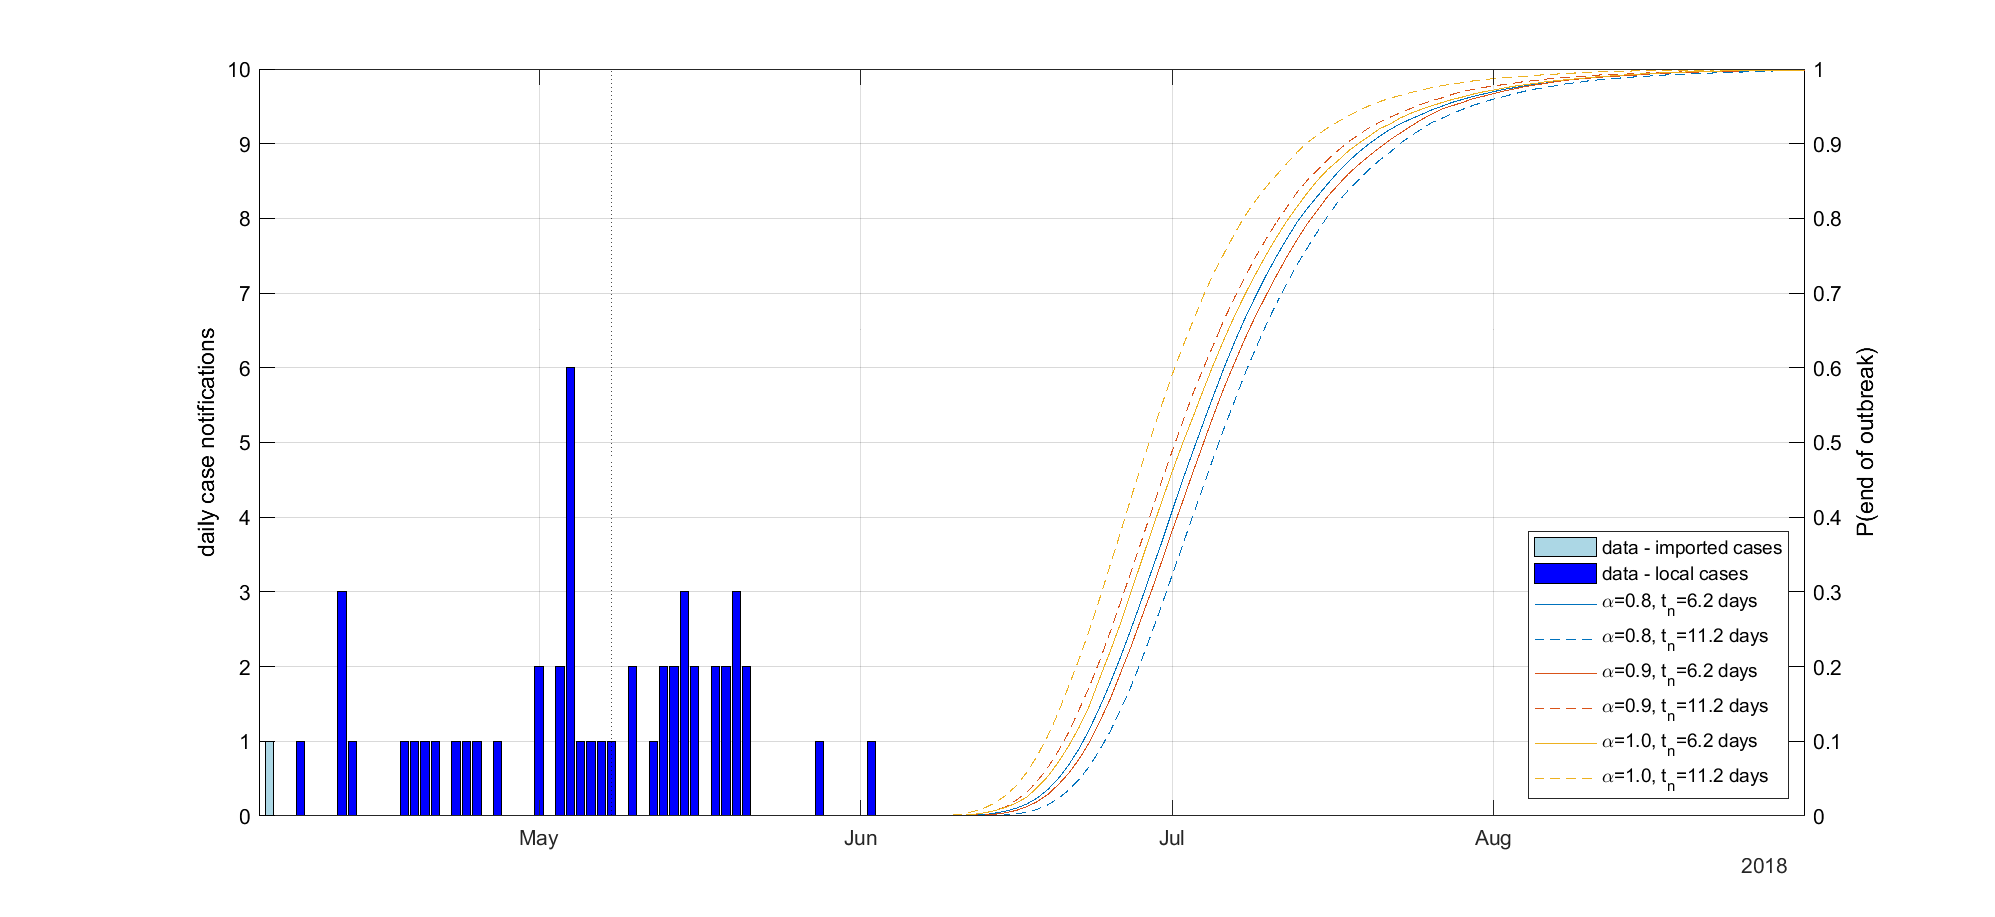
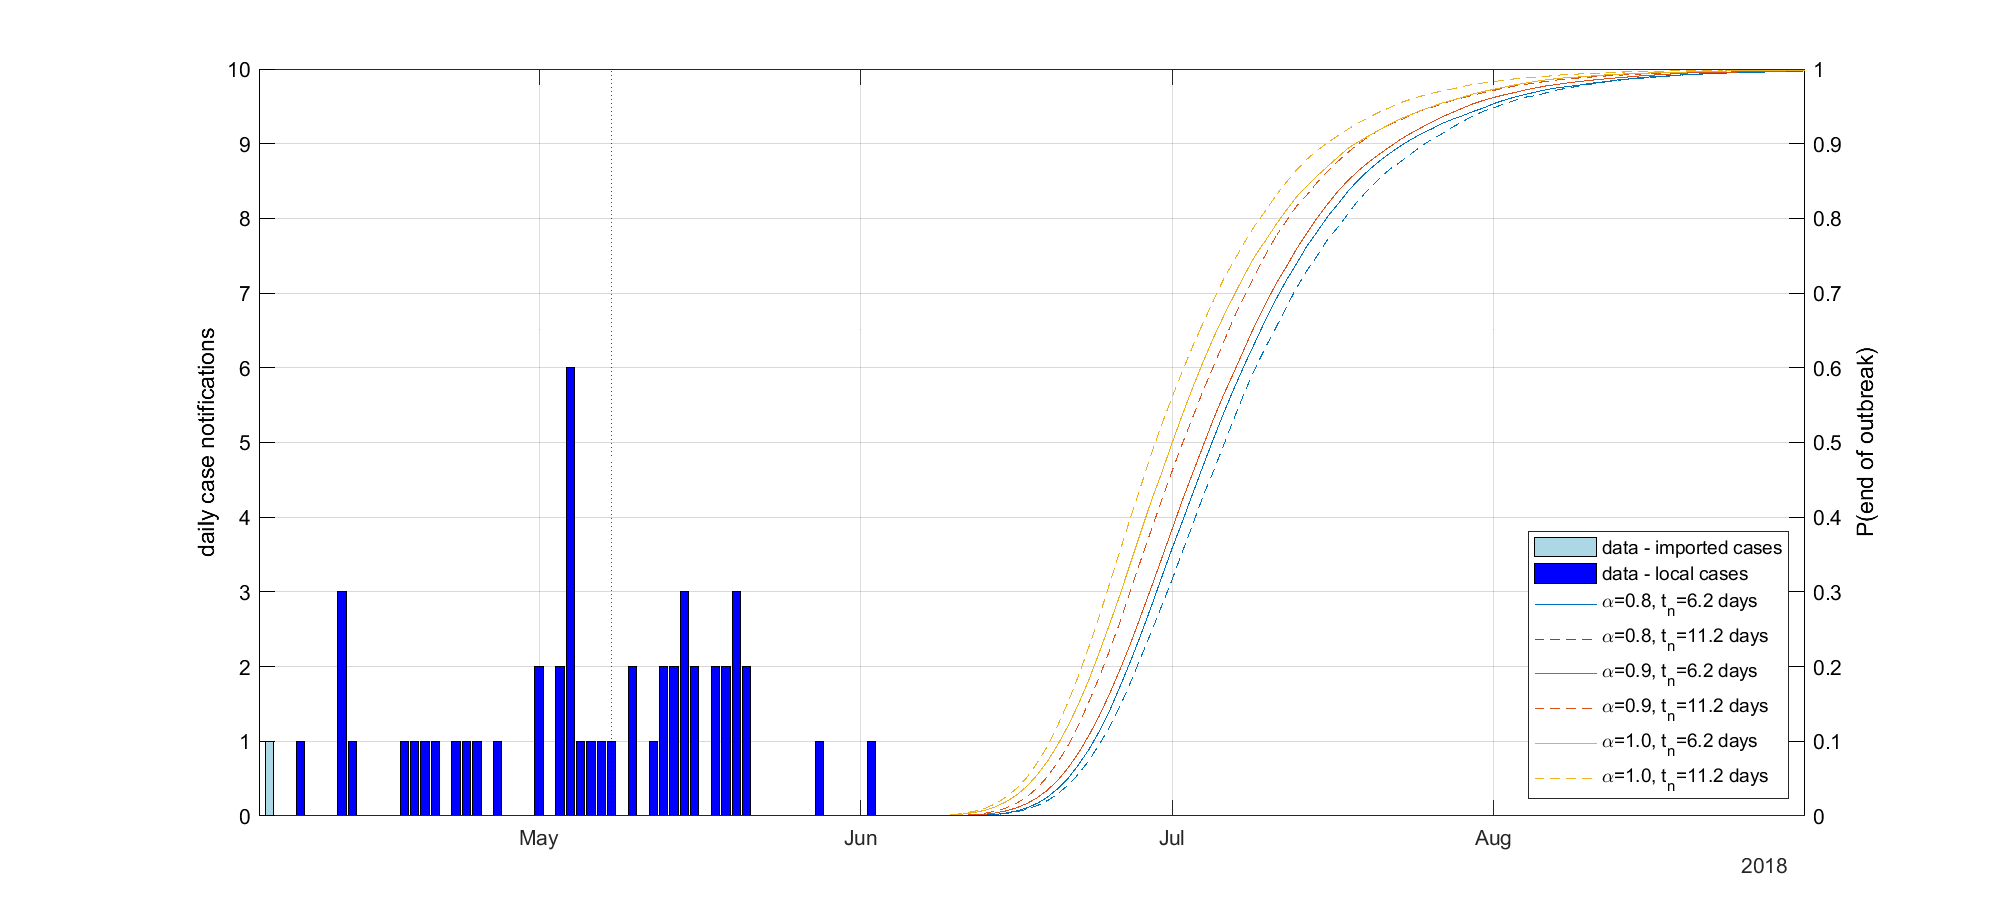
Fixed incorrect lag parameter for Covid

diff --git a/code/getPar.m b/code/getPar.m
@@ -16,7 +16,7 @@ if outbreakLbl == "covid_NZ_2020"
     date0 = datetime(2020, 2, 26);              % date of 1st case (simulation may start earlier than this because date of infection may be earlier)
     date1 = datetime(2020, 6, 30);           % End date for simulation (anything up to 10 August 2020 which was last day of zero reported cases)
     
-    par.resampleLag = 20;       % fixed lag resampling
+    par.resampleLag = 30;       % fixed lag resampling
  
     par.tRampStart = datetime(2020, 3, 23);
     par.rampDur = 7;                    % duration of intervention-related change in Rt
@@ -41,7 +41,7 @@ if outbreakLbl == "covid_NZ_2020"
     pdfFnGTD = @(x)(gampdf(x, GTD_shape, GTD_scale ));
 
     % Infection to report time distribution parameters
-    RTmax = 30;
+    RTmax = 25;
     par.RTmean = RTmean_scenarios(iScenario);
     par.RTsd = RTsd_scenarios(iScenario);
     [RTD_shape, RTD_scale] = gamShapeScale(par.RTmean, par.RTsd);       

diff --git a/results/table.tex b/results/table.tex
@@ -2,14 +2,14 @@
 \hline
 \multicolumn{3}{l}{ \bf Covid-19} \\ 
  &  $t_n=7.7$ days & $t_n=11.2$ days \\ 
-$\alpha=0.4$ & 06-Jun-2020 & 04-Jun-2020 \\ 
- $\alpha=0.7$ & 03-Jun-2020 & 02-Jun-2020 \\ 
+$\alpha=0.4$ & 06-Jun-2020 & 02-Jun-2020 \\ 
+ $\alpha=0.7$ & 03-Jun-2020 & 01-Jun-2020 \\ 
  $\alpha=1.0$ & 02-Jun-2020 & 01-Jun-2020 \\ 
  \hline
 \multicolumn{3}{l}{ \bf Ebola} \\ 
  &  $t_n=6.2$ days & $t_n=11.2$ days \\ 
-$\alpha=0.8$ & 27-Jul-2018 & 30-Jul-2018 \\ 
- $\alpha=0.9$ & 28-Jul-2018 & 25-Jul-2018 \\ 
- $\alpha=1.0$ & 26-Jul-2018 & 20-Jul-2018 \\ 
+$\alpha=0.8$ & 01-Aug-2018 & 02-Aug-2018 \\ 
+ $\alpha=0.9$ & 30-Jul-2018 & 27-Jul-2018 \\ 
+ $\alpha=1.0$ & 27-Jul-2018 & 23-Jul-2018 \\ 
  \hline
 \end{tabular} 
